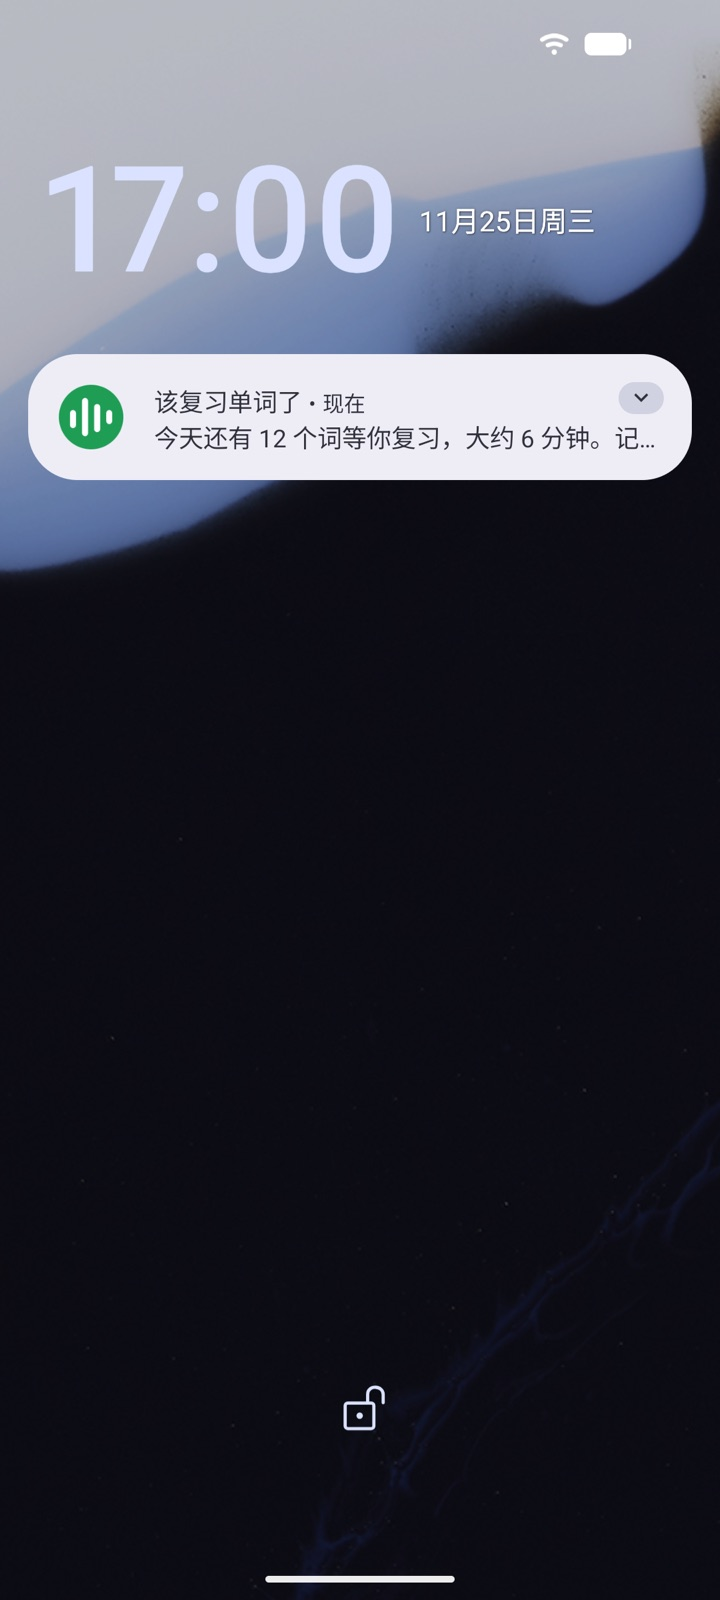
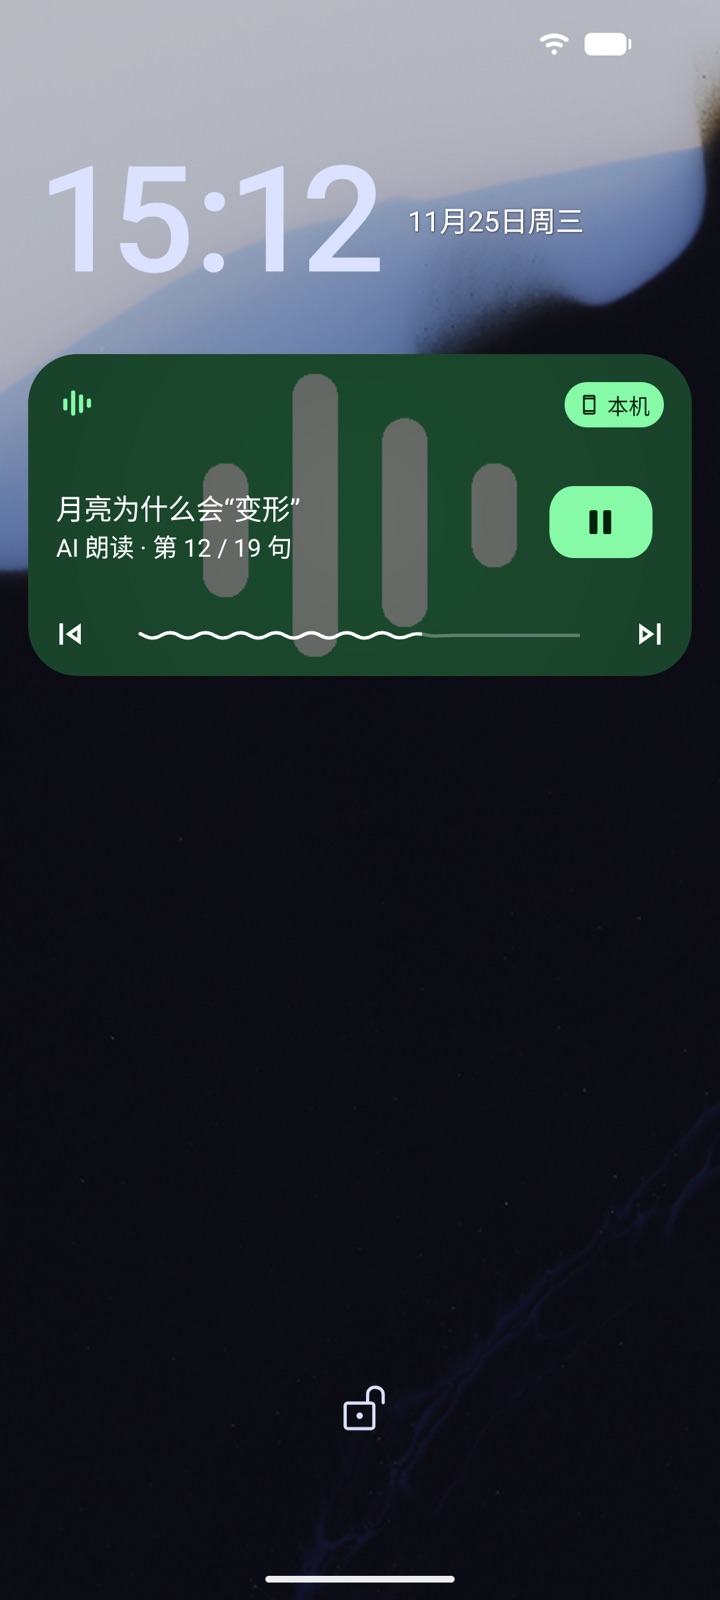
下载安装：安卓锁屏朗读随 #152 上线了，卡片和指南加回锁屏控制，权限写实际用途（C2 在正式版上核对）

Changed region(s): [[0.0306, 0.2188, 0.9778, 0.4375], [0.1528, 0.0938, 0.55, 0.1875], [0.5806, 0.125, 0.825, 0.1562]]

diff --git a/flow/public/about.html b/flow/public/about.html
@@ -610,16 +610,16 @@
     </article>
     <div class="app-grid">
       <article class="app-card rv" data-app="android">
-        <figure class="app-shot"><div class="dev-frame tall"><img src="/about/app-android.jpg" alt="安卓 App 的复习提醒通知（示例）" width="720" height="1600" loading="lazy" decoding="async"></div><figcaption>App 的复习提醒通知，数字是示例</figcaption></figure>
+        <figure class="app-shot"><div class="dev-frame tall"><img src="/about/app-android.jpg" alt="安卓 App：锁屏上的朗读控制，可以暂停、切上一句下一句" width="720" height="1600" loading="lazy" decoding="async"></div><figcaption>锁屏上的朗读控制</figcaption></figure>
         <div class="app-body">
           <div class="app-head"><span class="ti" aria-hidden="true"><svg viewBox="0 0 24 24"><rect x="6" y="2" width="12" height="20" rx="3"/><path d="M10.5 18.5h3"/></svg></span><h3>安卓</h3><span class="app-chip soon" data-chip>即将开放</span></div>
           <p class="app-lead">语流正式版网站的 App 外壳：打开的就是 flowlang.cn，用网站的账号。</p>
-          <ul class="app-perks"><li>桌面上一个「语流」图标，一点就开</li><li>复习提醒可以用 App 通知（第一次会问你允不允许通知）</li><li>有新版本时打开就会提示，点「下载」再点「更新」就换好</li></ul>
+          <ul class="app-perks"><li>放全文时可以锁屏，锁屏和通知栏上能暂停、切上一句下一句</li><li>复习提醒可以用 App 通知（第一次会问你允不允许通知）</li><li>有新版本时打开就会提示，点「下载」再点「更新」就换好</li></ul>
           <h4>安装要点</h4>
           <ol class="app-steps"><li>下载完点开安装包。在微信里打开这一页的话，先点右上角「···」，选「在浏览器打开」再下载。</li><li>第一次装会提示不允许安装此来源的应用：点「设置」，打开「允许从此来源安装应用」（有的手机叫「允许来自此来源的应用」或「安装未知应用」），返回点「安装」。</li><li>各品牌手机可能还会弹一次安全提示，按提示继续安装。鸿蒙 5 及以上（HarmonyOS NEXT）装不了安卓安装包。</li><li>已经装了 1.0.1 的：请在这里下载新版，手动装一次（会直接覆盖，登录和进度都还在）；以后有新版本，App 里会提示。</li></ol>
           <p class="app-warn">手机可能提示「未知来源」或风险应用，因为语流还没上应用商店。只从 flowlang.cn 下载，下载后核对 SHA-256。</p>
-          <p class="app-perm"><b>要用的权限：</b>麦克风（跟读和口语录音）、通知（复习提醒），第一次用到时才会问；安装未知应用，只在你选择在 App 里装新版本时才要；装好就有、不会弹窗的：网络和网络状态、精确闹钟和开机后排回提醒（让提醒准点）、前台播放和保持唤醒（为以后锁屏朗读准备，现在用不到）。</p>
-          <div class="dl" data-dl="android" data-name="安卓" data-plus="桌面图标和 App 通知的复习提醒" data-perm="麦克风（跟读和口语录音）、通知（复习提醒），第一次用到时才会问；安装未知应用，只在你选择在 App 里装新版本时才要；装好就有、不会弹窗的：网络和网络状态、精确闹钟和开机后排回提醒（让提醒准点）、前台播放和保持唤醒（为以后锁屏朗读准备，现在用不到）。" data-risk="手机可能提示「未知来源」或风险应用，因为语流还没上应用商店。只从 flowlang.cn 下载，下载后核对 SHA-256。" data-extra="包名 cn.flowlang.app"><a class="btn primary dl-btn" data-tap="about-dl-android" aria-disabled="true">即将开放</a><p class="dl-needs">需要安卓 8.0 或更新</p><p class="dl-meta" hidden></p><details class="dl-sum" hidden><summary>核对安装包（SHA-256）</summary><code class="dl-hash"></code><p class="dl-cert" hidden>签名证书 SHA-256：<code></code></p></details></div>
+          <p class="app-perm"><b>要用的权限：</b>麦克风（跟读和口语录音）、通知（复习提醒），第一次用到时才会问；安装未知应用，只在你选择在 App 里装新版本时才要；装好就有、不会弹窗的：网络和网络状态、精确闹钟和开机后排回提醒（让提醒准点）、前台播放和保持唤醒（锁屏以后整篇朗读接着放）。</p>
+          <div class="dl" data-dl="android" data-name="安卓" data-plus="锁屏朗读和锁屏控制、App 通知的复习提醒" data-perm="麦克风（跟读和口语录音）、通知（复习提醒），第一次用到时才会问；安装未知应用，只在你选择在 App 里装新版本时才要；装好就有、不会弹窗的：网络和网络状态、精确闹钟和开机后排回提醒（让提醒准点）、前台播放和保持唤醒（锁屏以后整篇朗读接着放）。" data-risk="手机可能提示「未知来源」或风险应用，因为语流还没上应用商店。只从 flowlang.cn 下载，下载后核对 SHA-256。" data-extra="包名 cn.flowlang.app"><a class="btn primary dl-btn" data-tap="about-dl-android" aria-disabled="true">即将开放</a><p class="dl-needs">需要安卓 8.0 或更新</p><p class="dl-meta" hidden></p><details class="dl-sum" hidden><summary>核对安装包（SHA-256）</summary><code class="dl-hash"></code><p class="dl-cert" hidden>签名证书 SHA-256：<code></code></p></details></div>
         </div>
       </article>
       <article class="app-card rv" data-d="1" data-app="windows">
